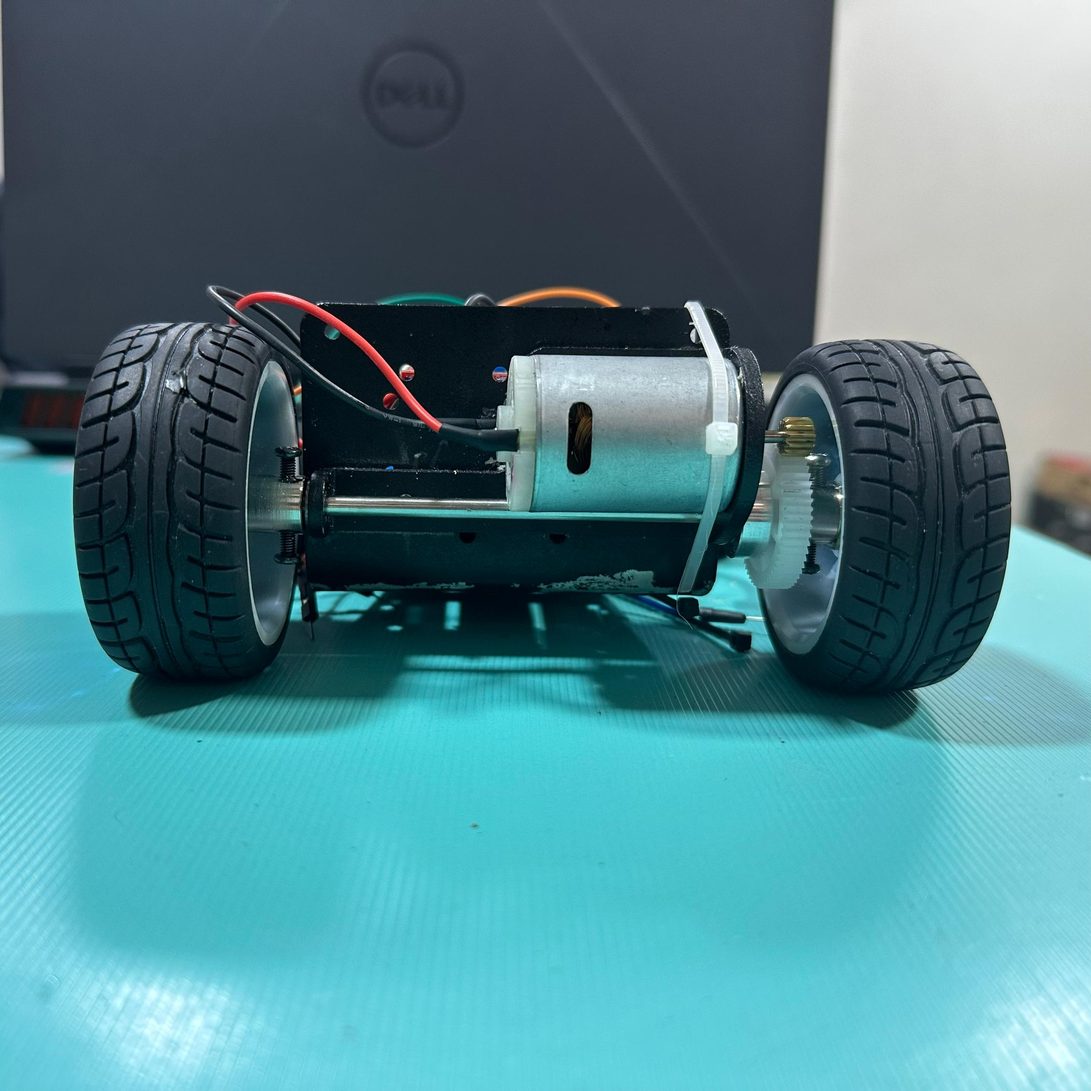
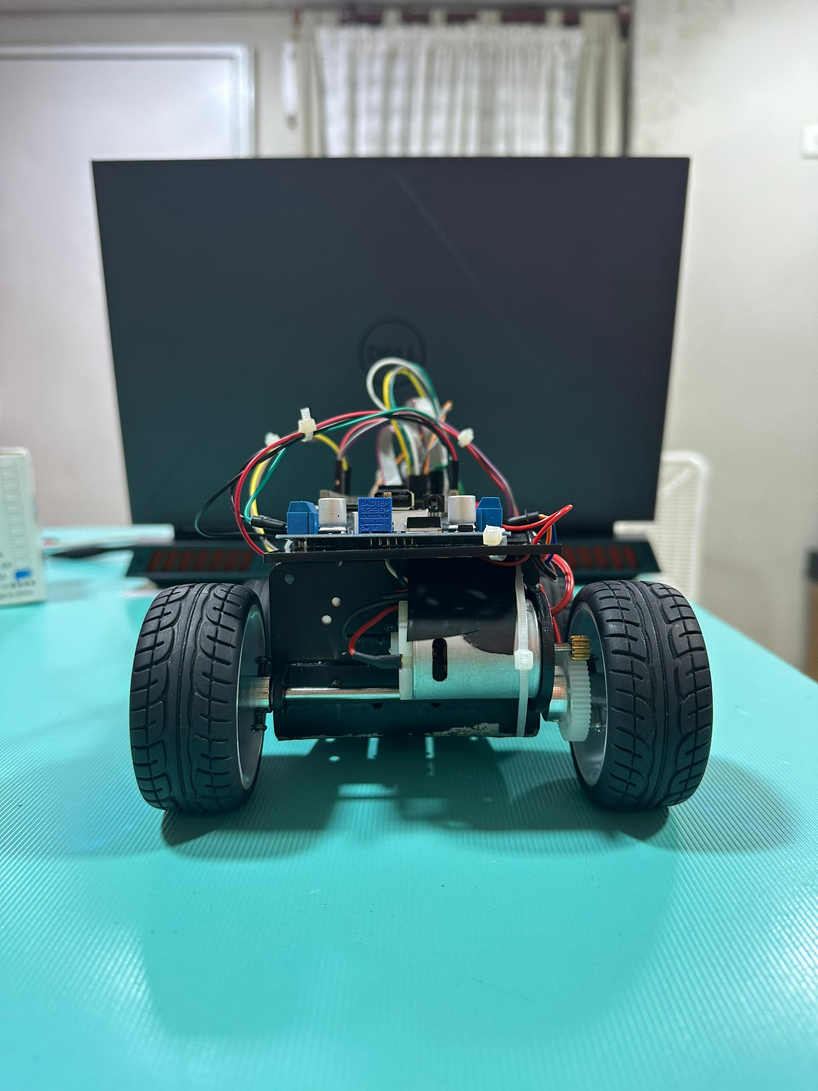
final reeadme  corrections

diff --git a/readme.md b/readme.md
@@ -87,7 +87,7 @@ El kit incluye otras piezas de plástico que fueron usadas de manera particular 
 ![Piezas direccion](./others/piezas/Resinaepoxi.jpg)
 
 Estas deberán unirse de la siguiente manera: Haciendo uso de resina epoxica mantenemos las piezas unidas de manera firme y resistente a impactos durante las pruebas de funcionamiento. También aprovechamos los agujeros para tornillos que tienen estas piezas para fijar nuestro microcontrolador principal:
-[Insertar imagen del microcontrolador fijado aquí]
+![micro](./v-fotos/foto_arriba.jpg)
 
 ## Sistema de Dirección
 El kit original venía con un sistema de dirección basado en un servomotor y algunas piezas para crear un sistema de dirección Ackerman. Este diseño fue una elección conveniente, no solo porque ya estaba incluido en el kit, sino también porque la configuración Ackerman es ideal para el propósito de la competencia. Permite que el vehículo tenga un sobreviraje controlado, lo que facilita giros más rápidos y eficientes, optimizando así el rendimiento en la competencia.
@@ -98,7 +98,7 @@ Imágenes de las piezas:
 ![Piezas direccion](./others/piezas/piezassistema.jpg)
 
 
-### Sin embargo, a pesar de las ventajas del sistema ya incluido con el kit, por motivos de precisión y durabilidad, decidimos realizar cambios a este sistema:
+#### Sin embargo, a pesar de las ventajas del sistema ya incluido con el kit, por motivos de precisión y durabilidad, decidimos realizar cambios a este sistema:
 - Crear una placa de Baquelita de 2.5cm por 8.5cm.
 - Utilizar un motor tipo stepper 28BYJ-48 de 5v.
 - Utilizar una cobertura de motor circular.
@@ -121,7 +121,7 @@ El eje trasero mide 8.5cm de longitud y el eje delantero mide 6.4cm con un volad
 La distancia entre ejes de 15.5 cm 
 
 
- - Las medidas totales de Chola con 21cm de largo y 8cm de ancho sin tomar en cuenta las ruedas , con estas el groso se eleva a 15 cm 
+ - #### Las medidas totales de Chola con 21cm de largo y 8cm de ancho sin tomar en cuenta las ruedas , con estas el groso se eleva a 15 cm 
 ## Sistema de motor
  - El motor usado es un motor DC de 3v a 12v genérico , con un piñón de 12 dientes. 
 Para transmitir el movimiento a las ruedas traseras , se engrana el motor a un piñón de 45 dientes , este último está ubicado en el eje de las ruedas y transmite el movimiento de los motores en una relación de 3,75
@@ -141,7 +141,7 @@ Este diagrama representa las conexiones fundamentales del sistema de nuestro rob
 La batería de 7.4V y 4Ah sirve como la fuente de energía principal para todo el sistema. Ya que muchos componentes operan a 5V o 3.3V, se ha incorporado un regulador de voltaje LM2596. Este regulador es muy importante, ya que reduce el voltaje de la batería (7.4V) a 5V para alimentar el Arduino GIGA y los sensores, minimizando la disipación de calor en comparación con los reguladores lineales. El motor DC se alimenta directamente de la batería a 7.4V, aprovechando la capacidad de la batería para proporcionar la corriente necesaria para su funcionamiento. 
 
 
-![Regulador](./schemes/regulador.png)
+![Regulador](./schemes/Regulador.png)
 
 
 - Tipo de Batería: Ión de Litio (Li-ion). Fueron elegidas por su equilibrio entre densidad de energía, ciclo de vida y seguridad relativa, en comparación con otras baterías de litio. 
